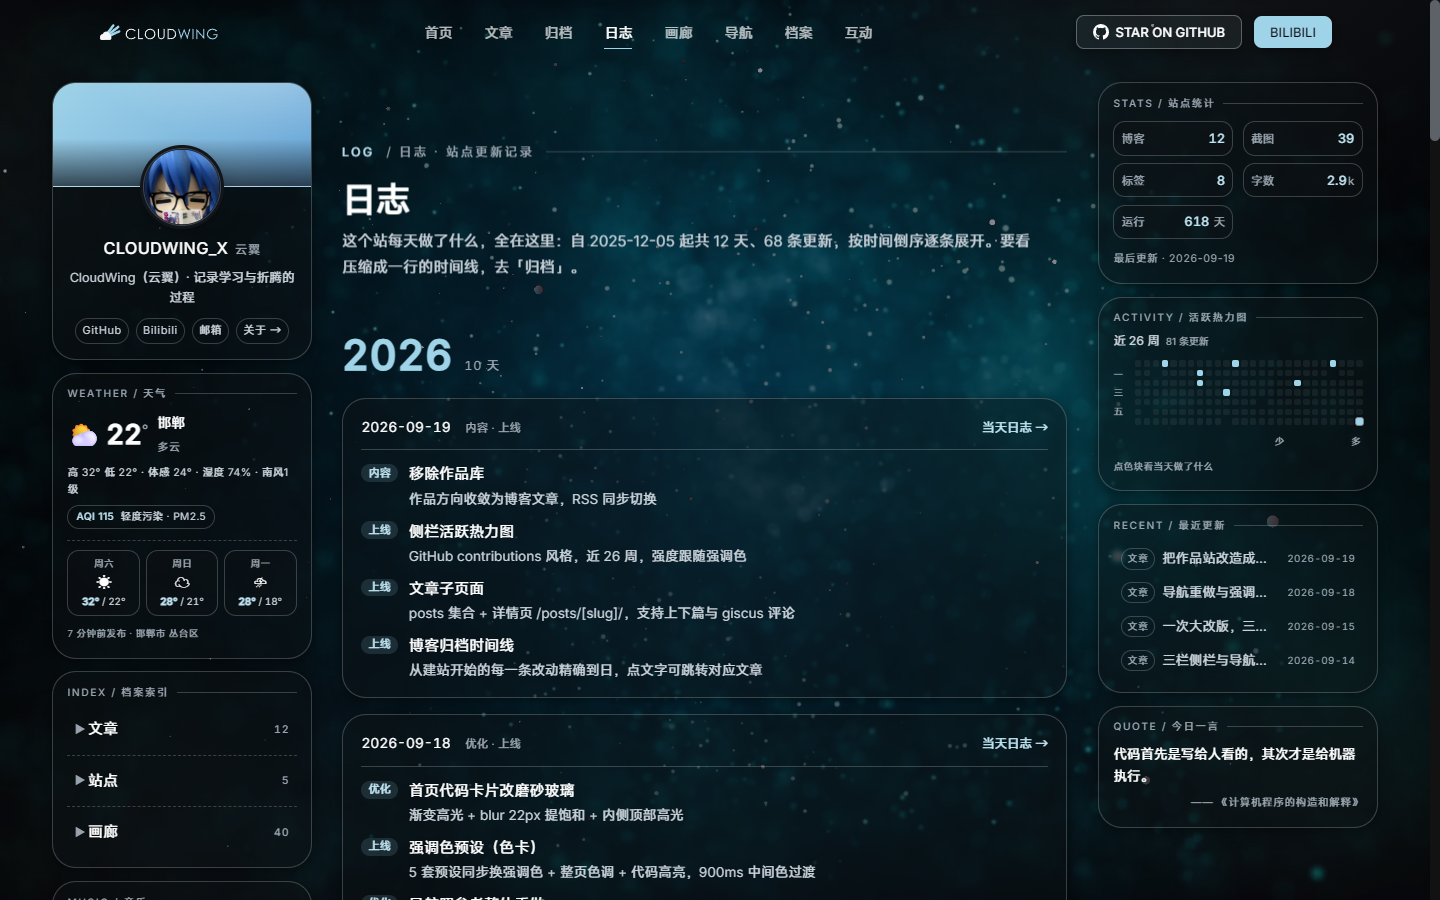
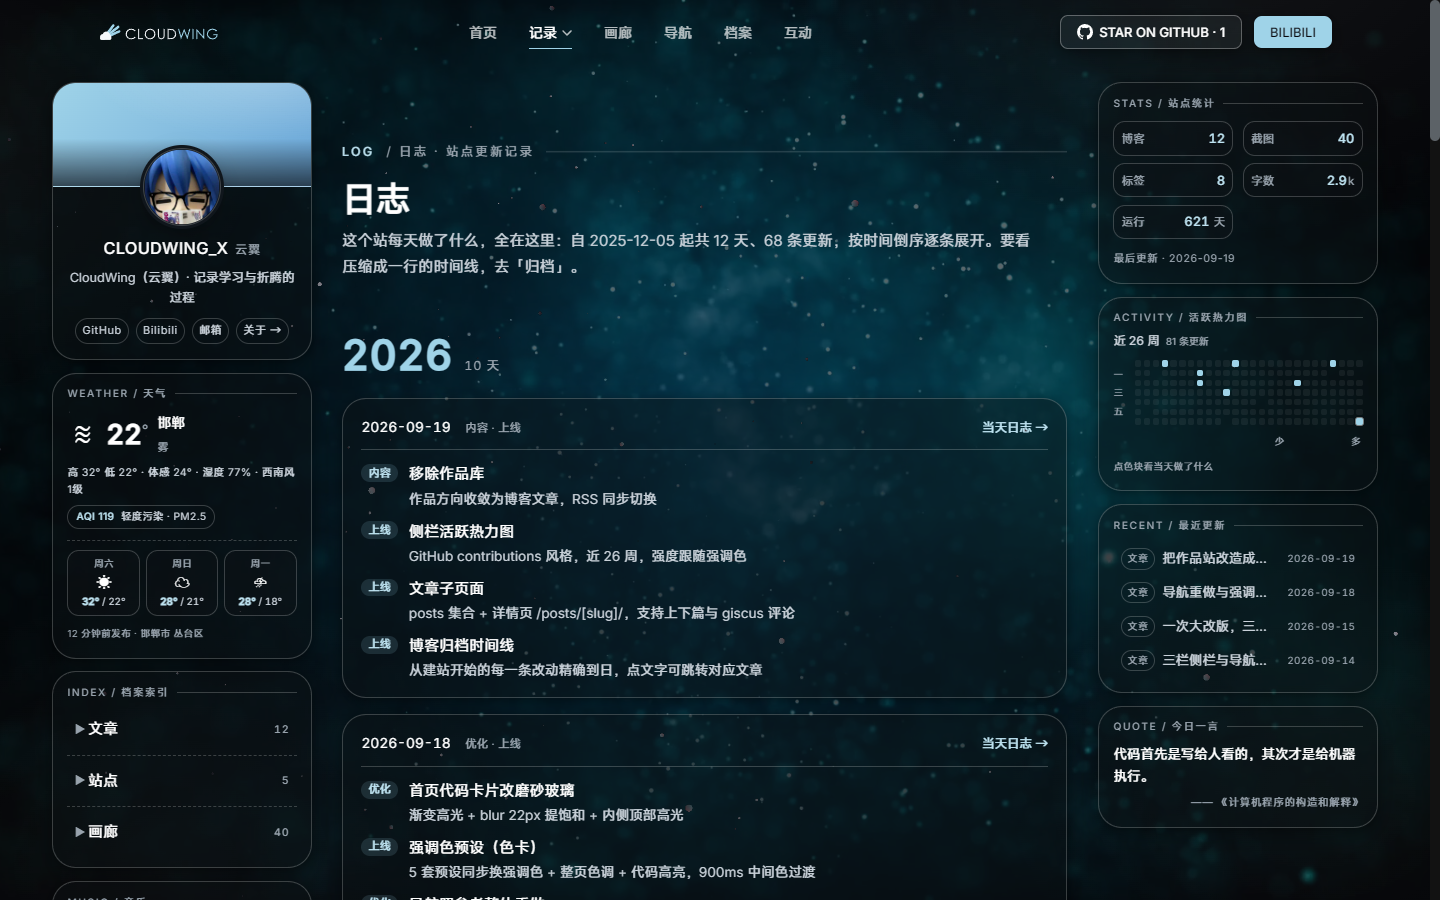
feat: 顶栏新增「记录」悬停下拉——文章/归档/日志收进一个入口
- site.ts：NavItem 加 children；NAV 8→6（记录带 3 child，父项仍可点，no 顺延 00-05）
- Header.astro：li.has-sub + nav-sub 下拉（hover + focus-within 纯 CSS 开合），
  hover 桥防缝隙闪烁；当前页下划线只落一级，下拉当前页用强调色文字；
  移动端抽屉改「记录」分组（组标题 + 3 缩进链接）；父项高亮口径含任一 child
- verify-nav：旧「无二级菜单」断言反转为「恰 1 个下拉」+ 7 条悬停行为断言（14→21）
- verify-nav-shrink：抽屉断言改「一级 5 + 组内 3 = 8」+ 记录分组恰 1 组
- 验证：nav 21/21、nav-shrink 40/40、smoke 58/58、copy 31/31；发布前全量 19/19
- HANDOFF 新增 §51，两份同步

diff --git a/src/site.ts b/src/site.ts
@@ -136,15 +136,34 @@ export const SITE = {
   since: 2025,
 };
 
-export const NAV = [
+/* ▍顶部导航（site.ts 是唯一数据源，Header.astro 渲染桌面顶栏 + 移动端抽屉）
+   2026-09-19 晚：站长要求把「文章 / 归档 / 日志」三个子页面收进「记录」一个入口，
+   鼠标悬停时浮出二级菜单（桌面端 hover + 键盘 focus-within；移动端抽屉里是分组标题 + 三个链接）。
+   - 有 children 的项：桌面上是「记录 ▾」悬停下拉；父项 href 仍然可点（落到 /posts/）。
+   - 当前路由落在任一 child 时，父项也亮（Header 的 isActive 已处理）。 */
+export type NavItem = {
+  href: string;
+  label: string;
+  no?: string;
+  children?: { href: string; label: string }[];
+};
+
+export const NAV: NavItem[] = [
   { href: '/', label: '首页', no: '00' },
-  { href: '/posts/', label: '文章', no: '01' },
-  { href: '/blog/', label: '归档', no: '02' },
-  { href: '/log/', label: '日志', no: '03' },
-  { href: '/gallery/', label: '画廊', no: '04' },
-  { href: '/nav/', label: '导航', no: '05' },
-  { href: '/about/', label: '关于', no: '06' },
-  { href: '/account/', label: '互动', no: '07' },
+  {
+    href: '/posts/',
+    label: '记录',
+    no: '01',
+    children: [
+      { href: '/posts/', label: '文章' },
+      { href: '/blog/', label: '归档' },
+      { href: '/log/', label: '日志' },
+    ],
+  },
+  { href: '/gallery/', label: '画廊', no: '02' },
+  { href: '/nav/', label: '导航', no: '03' },
+  { href: '/about/', label: '关于', no: '04' },
+  { href: '/account/', label: '互动', no: '05' },
 ];
 
 /* ▍网站导航页（/nav/）的条目 —— 按用途分组的站点收藏夹。

diff --git a/docs/HANDOFF.md b/docs/HANDOFF.md
@@ -10,7 +10,8 @@
 > （见 §43.1），其"简版硬规则"职责并入本文件。
 > 文中的本机路径（`D:\deep seek workplace\...`、Edge 路径、代理端口）来自开发机，换机器请按实际情况替换。
 >
-> 最后更新：2026-09-19 晚 **新增「日志」子页面 `/log/`——changelog 的完整展开版，见 §50**；
+> 最后更新：2026-09-19 深夜 **顶栏新增「记录」悬停下拉——文章/归档/日志收进一个入口，见 §51**；
+> 同日晚 **新增「日志」子页面 `/log/`——changelog 的完整展开版，见 §50**；
 > 同日下午 **确立全站交互策略（禁鼠标拖选 / 点击不出轮廓 / 键盘轮廓保留，见 §49；
 > 文章正文按站长裁决仍可复制，见 §49.3）**，
 > 并**修掉导航卡"真实图标与首字圆牌重叠"（见 §48.6）**、
@@ -34,7 +35,8 @@
 > 功能模块 → 相关模块脚本 + 关键路径 e2e；
 > **全量回归 `run-regress.mjs` 只在 PR 前 / 合并前 / 发布前 / 站长明确要求时跑，且优先交给 CI**。
 > 自检入口仍为 `cd endfield-blog && node scripts/run-regress.mjs`（**现为 19 个脚本**一次批跑）→
-> 最近一次 **19/19 全绿**（2026-09-19 晚，第 19 号脚本 `verify-log` 加入后的发布前全量，见 §50.4；
+> 最近两次全量 **19/19 全绿**（2026-09-19 深夜「记录」下拉上线前，见 §51.3；
+> 同日晚第 19 号脚本 `verify-log` 加入后的发布前全量，见 §50.4；
 > 上一轮 18 脚本时代 18/18 见 §49.4；上一轮 16 脚本时代为 15/16，唯一失败项 `verify-videobg` 经复跑证实为时序假失败，见 §46.5）。
 > （单个入口 `node scripts/smoke.mjs` 为 **53/53**）。
 > ✅ **文案漂移现在有断言了**（2026-09-19）：`scripts/verify-copy.mjs`（31 条，见 §7.2 / §42.2）——
@@ -1486,8 +1488,8 @@ const ws = new WebSocket(tab.webSocketDebuggerUrl);
 | `smoke.mjs` | ★总入口：各页横向溢出/控制台异常/侧栏存在与等高、长页两栏逐帧同步、"不钉在导航栏下"、软导航往返后的文章列表/详情跳转与热力图浮层交互、手机端侧栏隐藏（含 `/log/`） | **58/58**（2026-09-19 晚新增 `/log/` 后 53 → 58） |
 | `verify-hero.mjs` | 首页 Hero：几何/比例 + 与主栅格对齐（同宽/同内边距/内容左缘重合）+ 两行标题 + 强调色预设 + **整块竖向居中/容器居中/标题字号/`--card-shift`** + **手机端代码卡片按内容展开（未被压扁裁切）** + **代码卡片磨砂玻璃（模糊 ≥16px 且提饱和 / 多层玻璃）** | **88/88**（2026-09-18：修手机端卡片被裁 85 → 86，加磨砂玻璃 2 条 → 88） |
 | `verify-home.mjs` | 首页四层结构（最新**博客**）、图片策略、防 CLS 容器、alt、区块间距、SEO（6 页）、移动端单列 | **26/26**（2026-09-19 晚 `/log/` 加入后 +1） |
-| `verify-nav-shrink.mjs` | 导航三态（贴顶通栏/滚动胶囊/回顶）+ 形态过渡 + 移动端汉堡菜单（**含"抽屉已无分类入口"、"已无外链按钮"、"左右各内缩 12px"、"四角圆角 ≥12px 且一致"**、抽屉一级链接数随 NAV 增长同步 +1）+ **导航容器与主内容容器同宽、同左缘、自身居中** | **40/40**（2026-09-19 晚 `/log/` 后抽屉断言 7 → 8 修正，条数不变） |
-| `verify-nav.mjs` | 导航几何、玻璃、**博客归档入口在左栏**、无遗留二级菜单 | **14/14** |
+| `verify-nav-shrink.mjs` | 导航三态（贴顶通栏/滚动胶囊/回顶）+ 形态过渡 + 移动端汉堡菜单（**含"抽屉一级 5 链接 + 记录组 3 链接共 8"、"记录"分组存在且无 ?tag=/?game= 分类链接"、"已无外链按钮"、"左右各内缩 12px"、"四角圆角 ≥12px 且一致"**）+ **导航容器与主内容容器同宽、同左缘、自身居中** | **40/40**（2026-09-19 深夜「记录」下拉改断言，条数不变） |
+| `verify-nav.mjs` | 导航几何、玻璃、**「记录」悬停下拉**（§51：存在且仅 1 个、悬停浮出/移开收回、含 文章/归档/日志 三项且 href 一一对应、浮层在视口内）、**博客归档入口在左栏**、无遗留旧版二级菜单开关 | **21/21**（2026-09-19 深夜「记录」下拉后 14 → 21） |
 | `verify-brand.mjs` | 品牌标志（viewBox、云体/羽翼色值、旧六边形已清、不超导航条） | **10/10** |
 | `verify-theme.mjs` | 单主题不变量：默认暗色/系统浅色仍暗色/历史偏好切不回浅色/无开关/首屏逐帧无浅色帧 | **11/11** |
 | `verify-redesign.mjs` | 暗色电影感：玻璃令牌取值、**无暂停按钮 + 视频默认在播 + 旧暂停接口已移除 + reduced-motion 仍不播**、导航滚动过渡 | **16/16**（2026-09-18 暂停按钮删除后由 14 条改为此 6 条） |
@@ -2706,5 +2708,50 @@ node scripts/verify-interaction.mjs https://cloudwing.pages.dev
   修正为 8 并写明注释后 **40/40** → **全量口径 19/19 全绿**。
   ⚠ 教训：**每次往 `NAV` 加项，`verify-nav-shrink` 的抽屉计数断言要同步 +1**。
 - 调试环境注：本轮 CDP 无头浏览器（`cwcdp3` profile）出现"本地页面在 ~2500 字符处
-  readyState 停滞"的实例级损坏（外部站点正常）——**换回健康的 `cwcdp2` profile +
+  readyState 停滞"的实例级损坏  （外部站点正常）——**换回健康的 `cwcdp2` profile +
   `--disable-background-networking` 重启即恢复**。排查时先杀旧实例再换 profile，别急着改页面代码。
+
+
+---
+
+## §51 顶栏「记录」悬停下拉（2026-09-19 深夜）
+
+> 站长一句话需求：**「把文章、归档、日志三个子页面归于导航栏"记录"按钮的二级菜单下，
+> 当鼠标移动到记录按钮时，会浮现出二级菜单」**。
+> 背景：§50 刚加了 `/log/`，顶栏一级项一度到 8 个；本轮把其中三个内容入口收拢成一个「记录 ▾」。
+
+### 51.1 数据与结构
+
+- **数据源仍是 `site.ts` 的 `NAV`（唯一）**：`NavItem` 类型新增可选 `children`；
+  「记录」（href 仍指 `/posts/`，父项可点）带 3 个 child：文章 `/posts/`、归档 `/blog/`、日志 `/log/`。
+  顶栏一级项 8 → 6（首页 / 记录 / 画廊 / 导航 / 关于 / 互动），`no` 顺延 00–05。
+- **父项高亮口径**：路由落在自己**或任一 child**（`isActiveGroup`）——访问 /blog/ 或 /log/ 时亮的是「记录」。
+- **桌面端（Header.astro）**：`li.has-sub > a`（带 ▾ caret，悬停旋转 180°）+ `ul.nav-sub[data-nav-sub]`；
+  打开方式 `li:hover` **与** `li:focus-within`（键盘 Tab 进得去、Esc 外都能用，纯 CSS 零 JS）。
+  材质与抽屉同源：`rgba(10,10,15,.92)` + `blur(20px) saturate(180%)` + 14px 圆角 + 描边投影。
+- **hover 桥**：链接与面板之间留了 12px 视觉缝隙，`.nav-sub::before` 一块透明垫片
+  （left/right 各超出 14px）防止鼠标穿过缝隙时菜单闪烁收回——悬停下拉最容易翻车的就是这里。
+- **当前页样式分工**：一级链接的雾蓝下划线 `::after` 收窄到 `.nav-links > li > a`（下不得进下拉）；
+  下拉里的当前页用**强调色文字**（不加横线）。
+- **移动端抽屉**：「记录」渲染为分组——`.mm-group`（12px 字距组标题）+ 三个缩进链接 `.mm-sub`；
+  一级链接 5 个 + 组内 3 个，`<a>` 总数仍是 8。
+- **left 栏导航树（SidebarNav.astro）不动**：三页在左栏仍是平级独立入口（分栏入口与顶栏入口解耦）。
+
+### 51.2 断言反转（verify-nav / verify-nav-shrink）
+
+- `verify-nav.mjs` 旧断言「导航栏已无二级菜单（照参考）」**反转**为
+  「恰好 1 个 `data-nav-sub`」，并**新增 7 条行为断言**：
+  顶栏有「记录」、落 /blog/ 时父项 `aria-current`、**悬停浮出（CDP `Input.dispatchMouseEvent`）**、
+  浮层在视口内顶栏下方、三项文字与 href 一一对应（`/posts/` `/blog/` `/log/`）、**移开收回**。
+  旧断言「已无遗留的二级菜单开关（`[data-nav-caret]`）」保留——本轮没用这个属性，防止旧实现回流。
+- `verify-nav.mjs`「导航项仍可点击」的选择器从 `/blog/`（已进下拉，隐藏态不可命中）改为一级的 `/gallery/`。
+- `verify-nav-shrink.mjs` 抽屉断言改为「一级 5 + 组内 3 = 共 8 个 `<a>`」+「记录分组恰 1 组且无 ?tag=/?game= 链接」。
+- 基线：`verify-nav` **14 → 21**、`verify-nav-shrink` 40（断言语义更新）。
+
+### 51.3 验证与上线
+
+- 单跑：`verify-nav` **21/21**、`verify-nav-shrink` **40/40**、smoke 58/58、copy 31/31、log 15/15、home 26/26。
+- **发布前全量 19 脚本：19/19 全绿**（§47.2 发布前触发）。
+- 悬停实况截图：`_shots/records-dropdown.png`（记录 ▾ + 玻璃下拉三项）。
+- ⚠ 教训（沿用 §50.4）：**改 NAV 结构（加项/收组）必须同步两处断言**——
+  `verify-nav-shrink` 的抽屉计数与 `verify-nav` 的一级入口选择器，这轮是提前改好才没红。
